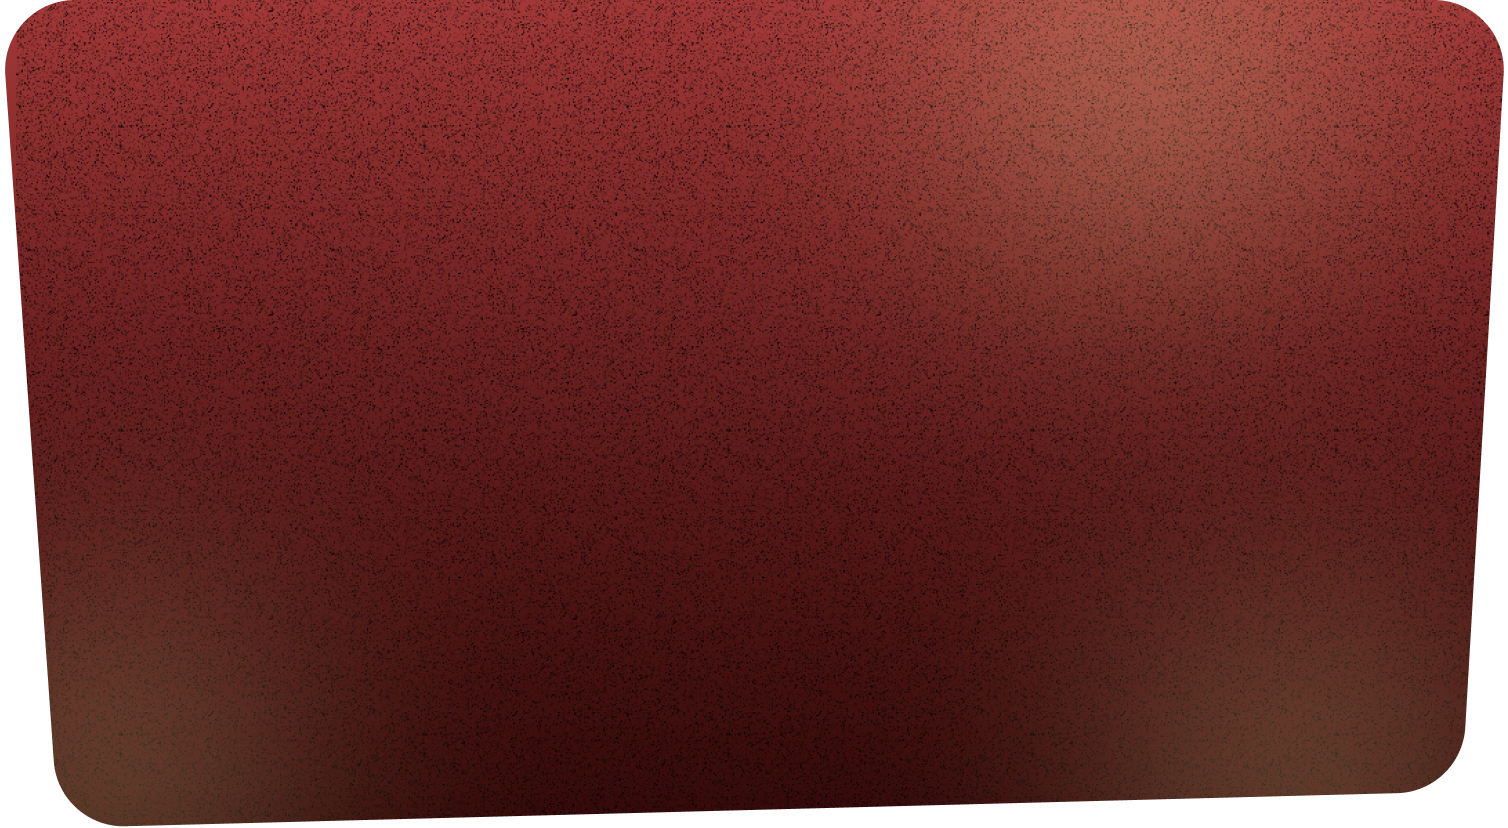
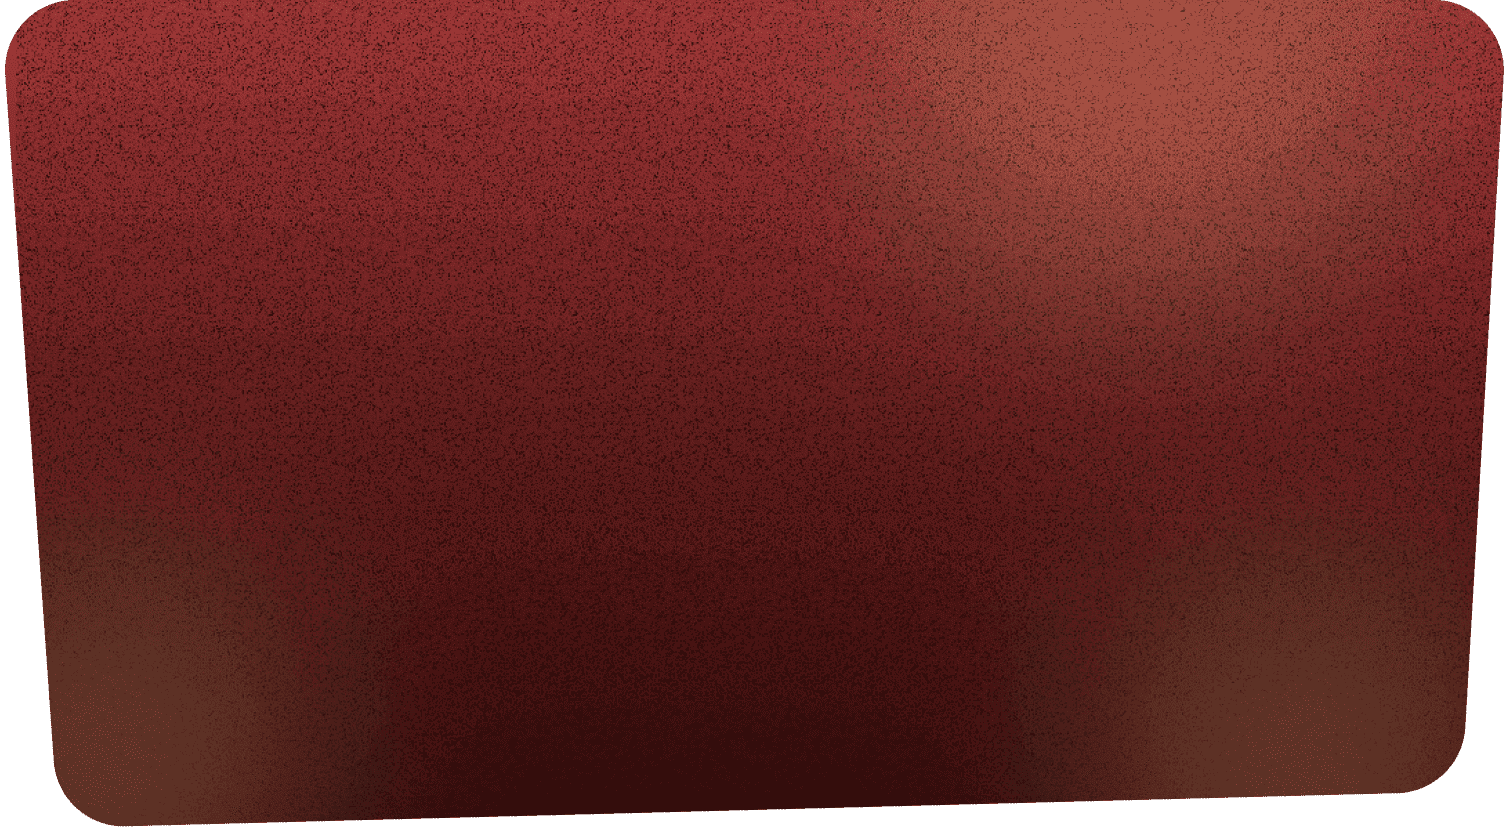
optimizing images to load faster

Changed region(s): [[0.0623, 0.9964, 0.1247, 1.0]]

diff --git a/frontend/components/organisms/Gallery/gallery.tsx b/frontend/components/organisms/Gallery/gallery.tsx
@@ -1,6 +1,7 @@
-import React, { useState } from "react";
+import React, { useState, useEffect } from 'react';
 
-const images: string[] = [
+const images = [
+  "/images/Gal11.jpg",
   "/images/Gal10.jpg",
   "/images/Gal1.jpg",
   "/images/Gal9.jpg",
@@ -46,23 +47,71 @@ const RightArrow = () => (
   </svg>
 );
 
-const Gallery: React.FC = () => {
-  const [currentIndex, setCurrentIndex] = useState<number>(0);
+const Gallery = () => {
+  const [currentIndex, setCurrentIndex] = useState(0);
+  const [loadedImages, setLoadedImages] = useState<Set<string>>(new Set());
+  const [isTransitioning, setIsTransitioning] = useState(false);
+
+  // Preload images
+  useEffect(() => {
+    const preloadImages = () => {
+      images.forEach((src) => {
+        const img = new Image();
+        img.src = src;
+        img.onload = () => {
+          setLoadedImages(prevSet => {
+            const newSet = new Set(prevSet);
+            newSet.add(src);
+            return newSet;
+          });
+        };
+      });
+    };
+    preloadImages();
+  }, []);
+
+  // Preload adjacent images
+  useEffect(() => {
+    const preloadAdjacent = () => {
+      const nextIndex = (currentIndex + 1) % images.length;
+      const prevIndex = currentIndex === 0 ? images.length - 1 : currentIndex - 1;
+      
+      [images[prevIndex], images[currentIndex], images[nextIndex]].forEach(src => {
+        if (!loadedImages.has(src)) {
+          const img = new Image();
+          img.src = src;
+          img.onload = () => {
+            setLoadedImages(prevSet => {
+              const newSet = new Set(prevSet);
+              newSet.add(src);
+              return newSet;
+            });
+          };
+        }
+      });
+    };
+    preloadAdjacent();
+  }, [currentIndex, loadedImages]);
 
   const goToPrevious = () => {
+    if (isTransitioning) return;
+    setIsTransitioning(true);
     setCurrentIndex((prevIndex) => 
       prevIndex === 0 ? images.length - 1 : prevIndex - 1
     );
+    setTimeout(() => setIsTransitioning(false), 300);
   };
 
   const goToNext = () => {
+    if (isTransitioning) return;
+    setIsTransitioning(true);
     setCurrentIndex((prevIndex) => 
       prevIndex === images.length - 1 ? 0 : prevIndex + 1
     );
+    setTimeout(() => setIsTransitioning(false), 300);
   };
 
-  // Handle keyboard navigation
-  React.useEffect(() => {
+  useEffect(() => {
     const handleKeyPress = (event: KeyboardEvent) => {
       if (event.key === 'ArrowLeft') {
         goToPrevious();
@@ -73,7 +122,7 @@ const Gallery: React.FC = () => {
 
     window.addEventListener('keydown', handleKeyPress);
     return () => window.removeEventListener('keydown', handleKeyPress);
-  }, []);
+  }, [isTransitioning]);
 
   return (
     <div className="py-12 px-4 relative">
@@ -82,19 +131,37 @@ const Gallery: React.FC = () => {
           Our Gallery
         </h2>
         
-        {/* Image Container */}
-        <div className="relative mb-4 min-h-[50vh] flex items-center justify-center">
-          {/* Main Image */}
-          <img
-            src={images[currentIndex]}
-            className="object-contain max-h-[65vh] mx-auto"
-            alt={`Gallery image ${currentIndex + 1}`}
-          />
+        <div className="relative mb-4 min-h-[50vh] flex items-center justify-center overflow-hidden">
+          {/* Hidden preload container */}
+          <div className="hidden">
+            {images.map((src, index) => (
+              <img 
+                key={`preload-${index}`}
+                src={src}
+                alt=""
+                className="hidden"
+              />
+            ))}
+          </div>
+
+          {/* Main Image with transition */}
+          <div className={`transition-opacity duration-300 ${isTransitioning ? 'opacity-50' : 'opacity-100'}`}>
+            <img
+              src={images[currentIndex]}
+              className="object-contain max-h-[65vh] mx-auto"
+              alt={`Gallery image ${currentIndex + 1}`}
+              style={{ 
+                opacity: loadedImages.has(images[currentIndex]) ? 1 : 0,
+                transition: 'opacity 0.3s ease-in-out'
+              }}
+            />
+          </div>
 
           {/* Navigation Buttons */}
           <button
             onClick={goToPrevious}
-            className="absolute left-0 top-1/2 -translate-y-1/2 bg-black/30 hover:bg-black/50 text-white p-2 rounded-r-lg transition-colors"
+            disabled={isTransitioning}
+            className="absolute left-0 top-1/2 -translate-y-1/2 bg-black/30 hover:bg-black/50 text-white p-2 rounded-r-lg transition-colors disabled:opacity-50"
             aria-label="Previous image"
           >
             <LeftArrow />
@@ -102,7 +169,8 @@ const Gallery: React.FC = () => {
           
           <button
             onClick={goToNext}
-            className="absolute right-0 top-1/2 -translate-y-1/2 bg-black/30 hover:bg-black/50 text-white p-2 rounded-l-lg transition-colors"
+            disabled={isTransitioning}
+            className="absolute right-0 top-1/2 -translate-y-1/2 bg-black/30 hover:bg-black/50 text-white p-2 rounded-l-lg transition-colors disabled:opacity-50"
             aria-label="Next image"
           >
             <RightArrow />
@@ -114,12 +182,19 @@ const Gallery: React.FC = () => {
           {images.map((_, index) => (
             <button
               key={index}
+              disabled={isTransitioning}
               className={`w-3 h-3 rounded-full transition-all duration-300 ${
                 currentIndex === index 
                   ? "bg-[#4f1919] w-4 h-4" 
                   : "bg-gray-300 hover:bg-gray-400"
               }`}
-              onClick={() => setCurrentIndex(index)}
+              onClick={() => {
+                if (!isTransitioning) {
+                  setIsTransitioning(true);
+                  setCurrentIndex(index);
+                  setTimeout(() => setIsTransitioning(false), 300);
+                }
+              }}
               aria-label={`Go to image ${index + 1}`}
             />
           ))}

diff --git a/frontend/components/molecules/Card/BlockchainEducationBanner/BlockchainEducationBanner.tsx b/frontend/components/molecules/Card/BlockchainEducationBanner/BlockchainEducationBanner.tsx
@@ -24,7 +24,7 @@ const BlockchainEducationBanner = () => {
   const containerClass = isDesktop
     ? `mx-auto md:my-8 relative overflow-hidden min-h-[80vh] sm:min-h-[70vh] p-6 sm:p-10 
        rounded-[20px] sm:rounded-[40px] flex flex-col sm:flex-row items-center max-w-6xl
-       bg-[url('/images/HeroImage.png')] bg-cover bg-center`
+       bg-[url('/images/HeroImage.webp')] bg-cover bg-center`
     : `mx-4 md:mx-8 lg:mx-16 xl:mx-48 my-10 px-6 md:px-12 py-8 md:py-16 rounded-2xl 
        bg-gradient-to-r from-[#6a1d1b] to-[#340a0a] shadow-xl border-[4px] border-[#400d0b]`;
 
@@ -34,7 +34,7 @@ const BlockchainEducationBanner = () => {
       <div className="w-full sm:w-1/2 flex items-center justify-center mb-10 sm:mb-0 sm:order-last">
         <div className="relative w-full max-w-[500px] h-[550px]">
           <Image 
-            src="/images/Hero.png"
+            src="/images/HeroImage2.png"
             alt="Grant Application"
             layout="fill"
             objectFit="contain"

diff --git a/README.md b/README.md
@@ -3,7 +3,7 @@ This is the official site for ICP Hub Kenya. Check out the main site over [here]
 
 Request ID for Domain is: 
 ```
[2 lines of base64/hex data omitted]
 icphubkenya.com - 
 ```
 # Getting started: 
